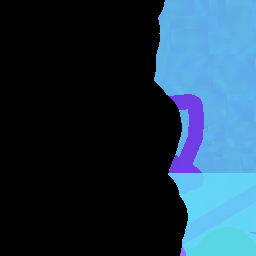
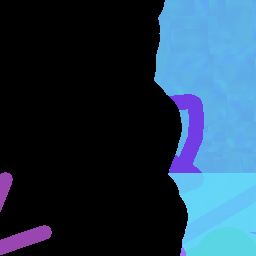
Fixed another issue with drawing thick lines

Changed region(s): [[0.0, 0.875, 0.2188, 1.0], [0.0, 0.6562, 0.0625, 0.8125]]

diff --git a/Code/drawing_functions.py b/Code/drawing_functions.py
@@ -1805,15 +1805,10 @@ class DrawLine():
                     f_color.rgba = line_color;
                 }
 
+                slope = (delta_y + 1) / (delta_x - 1);
                 if (thickness == 1.0) {
-                    slope = (delta_y + 1) / (delta_x - 1);
                     float calculated_y = (slope * (editor_pixel_x - 0.5)) + y1 - 0.5;
-                    if (mod(calculated_y, 1.0) > 0.999) {
-                        calculated_y = ceil(calculated_y);
-                    }
-                    if (mod(calculated_y, 1.0) < 0.001) {
-                        calculated_y = floor(calculated_y);
-                    }
+                    calculated_y = round_close(calculated_y);
                     if ((calculated_y <= editor_pixel_y + 0.5) && (calculated_y > editor_pixel_y - 0.5)) {
                         f_color.rgba = line_color;
                     }
@@ -1822,13 +1817,15 @@ class DrawLine():
                 float left_top_edge_offset = (mod(thickness, 2.0) == 0.0) ? -((thickness / 2) - 1) : -floor(thickness / 2);
                 float bottom_line_x = x1 + left_top_edge_offset + outer_line_x1;
                 float bottom_line_y = y1 + left_top_edge_offset + outer_line_y1;
-                float bottom_line_intercept = (slope * -bottom_line_x) + bottom_line_y;
-                bool above_bottom_line = editor_pixel_y - 0.5 <= (slope * editor_pixel_x) + bottom_line_intercept;
+                float calculated_bottom_line = (slope * (editor_pixel_x - bottom_line_x - 0.5)) + bottom_line_y - 0.5;
+                calculated_bottom_line = round_close(calculated_bottom_line);
+                bool above_bottom_line = calculated_bottom_line > editor_pixel_y - 0.5;
 
                 float top_line_x = x1 + left_top_edge_offset + outer_line_x2;
                 float top_line_y = y1 + left_top_edge_offset + outer_line_y2;
-                float top_line_intercept = (slope * -top_line_x) + top_line_y;
-                bool below_top_line = editor_pixel_y + 0.5 > (slope * editor_pixel_x) + top_line_intercept;
+                float calculated_top_line = (slope * (editor_pixel_x - top_line_x - 0.5)) + top_line_y - 0.5;
+                calculated_top_line = round_close(calculated_top_line);
+                bool below_top_line = calculated_top_line <= editor_pixel_y + 0.5;
 
                 float perpendicular_slope = (top_line_y - bottom_line_y) / (top_line_x - bottom_line_x);
                 float perpendicular_intercept_stamp1 = (perpendicular_slope * -bottom_line_x + 1) + bottom_line_y;
@@ -1861,15 +1858,10 @@ class DrawLine():
                     f_color.rgba = line_color;
                 }
 
+                inverse_slope = (delta_x - 1) / (delta_y + 1);
                 if (thickness == 1.0) {
-                    inverse_slope = (delta_x - 1) / (delta_y + 1);
                     float calculated_x = (inverse_slope * (editor_pixel_y - y1 + 0.5)) + 0.5;
-                    if (mod(calculated_x, 1.0) > 0.999) {
-                        calculated_x = ceil(calculated_x);
-                    }
-                    if (mod(calculated_x, 1.0) < 0.001) {
-                        calculated_x = floor(calculated_x);
-                    }
+                    calculated_x = round_close(calculated_x);
                     if ((calculated_x < editor_pixel_x + 0.5) && (calculated_x >= editor_pixel_x - 0.5)) {
                         f_color.rgba = line_color;
                     }
@@ -1878,13 +1870,15 @@ class DrawLine():
                 float left_top_edge_offset = (mod(thickness, 2.0) == 0.0) ? -((thickness / 2) - 1) : -floor(thickness / 2);
                 float bottom_line_x = x1 + left_top_edge_offset + outer_line_x1;
                 float bottom_line_y = y1 + left_top_edge_offset + outer_line_y1;
-                float bottom_line_intercept = (inverse_slope * -bottom_line_y) + bottom_line_x;
-                bool above_bottom_line = editor_pixel_x - 0.5 <= (inverse_slope * editor_pixel_y) + bottom_line_intercept;
+                float calculated_bottom_line = (inverse_slope * (editor_pixel_y - bottom_line_y + 0.5)) + bottom_line_x + 0.5;
+                calculated_bottom_line = round_close(calculated_bottom_line);
+                bool above_bottom_line = calculated_bottom_line >= editor_pixel_x - 0.5;
 
                 float top_line_x = x1 + left_top_edge_offset + outer_line_x2;
                 float top_line_y = y1 + left_top_edge_offset + outer_line_y2;
-                float top_line_intercept = (inverse_slope * -top_line_y) + top_line_x;
-                bool below_top_line = editor_pixel_x + 0.5 > (inverse_slope * editor_pixel_y) + top_line_intercept;
+                float calculated_top_line = (inverse_slope * (editor_pixel_y - top_line_y + 0.5)) + top_line_x + 0.5;
+                calculated_top_line = round_close(calculated_top_line);
+                bool below_top_line = calculated_top_line < editor_pixel_x + 0.5;
 
                 float perpendicular_slope = (top_line_x - bottom_line_x) / (top_line_y - bottom_line_y);
                 float perpendicular_intercept_stamp1 = (perpendicular_slope * -bottom_line_y) + bottom_line_x - 1;
@@ -1915,15 +1909,10 @@ class DrawLine():
                     f_color.rgba = line_color;
                 }
 
+                inverse_slope = (delta_x + 1) / (delta_y + 1);
                 if (thickness == 1.0) {
-                    inverse_slope = (delta_x + 1) / (delta_y + 1);
                     float calculated_x = (inverse_slope * (editor_pixel_y - y1 + 0.5)) + x1 - 0.5;
-                    if (mod(calculated_x, 1.0) > 0.999) {
-                        calculated_x = ceil(calculated_x);
-                    }
-                    if (mod(calculated_x, 1.0) < 0.001) {
-                        calculated_x = floor(calculated_x);
-                    }
+                    calculated_x = round_close(calculated_x);
                     if ((calculated_x <= editor_pixel_x + 0.5) && (calculated_x > editor_pixel_x - 0.5)) {
                         f_color.rgba = line_color;
                     }
@@ -1932,13 +1921,15 @@ class DrawLine():
                 float left_top_edge_offset = (mod(thickness, 2.0) == 0.0) ? -((thickness / 2) - 1) : -floor(thickness / 2);
                 float bottom_line_x = x1 + left_top_edge_offset + outer_line_x1;
                 float bottom_line_y = y1 + left_top_edge_offset + outer_line_y1;
-                float bottom_line_intercept = (inverse_slope * -bottom_line_y) + bottom_line_x;
-                bool above_bottom_line = editor_pixel_x + 0.5 > (inverse_slope * editor_pixel_y) + bottom_line_intercept;
+                float calculated_bottom_line = (inverse_slope * (editor_pixel_y - bottom_line_y + 0.5)) + bottom_line_x - 0.5;
+                calculated_bottom_line = round_close(calculated_bottom_line);
+                bool above_bottom_line = calculated_bottom_line <= editor_pixel_x + 0.5;
 
                 float top_line_x = x1 + left_top_edge_offset + outer_line_x2;
                 float top_line_y = y1 + left_top_edge_offset + outer_line_y2;
-                float top_line_intercept = (inverse_slope * -top_line_y) + top_line_x;
-                bool below_top_line = editor_pixel_x - 0.5 <= (inverse_slope * editor_pixel_y) + top_line_intercept;
+                float calculated_top_line = (inverse_slope * (editor_pixel_y - top_line_y + 0.5)) + top_line_x - 0.5;
+                calculated_top_line = round_close(calculated_top_line);
+                bool below_top_line = calculated_top_line > editor_pixel_x - 0.5;
 
                 float perpendicular_slope = (top_line_x - bottom_line_x) / (top_line_y - bottom_line_y);
                 float perpendicular_intercept_stamp1 = (perpendicular_slope * -bottom_line_y - 1) + bottom_line_x;
@@ -1969,15 +1960,10 @@ class DrawLine():
                     f_color.rgba = line_color;
                 }
 
+                slope = (delta_y + 1) / (delta_x + 1);
                 if (thickness == 1.0) {
-                    slope = (delta_y + 1) / (delta_x + 1);
                     float calculated_y = (slope * (editor_pixel_x - x1 + 0.5)) + y1 - 0.5;
-                    if (mod(calculated_y, 1.0) > 0.999) {
-                        calculated_y = ceil(calculated_y);
-                    }
-                    if (mod(calculated_y, 1.0) < 0.001) {
-                        calculated_y = floor(calculated_y);
-                    }
+                    calculated_y = round_close(calculated_y);
                     if ((calculated_y <= editor_pixel_y + 0.5) && (calculated_y > editor_pixel_y - 0.5)) {
                         f_color.rgba = line_color;
                     }
@@ -1986,13 +1972,15 @@ class DrawLine():
                 float left_top_edge_offset = (mod(thickness, 2.0) == 0.0) ? -((thickness / 2) - 1) : -floor(thickness / 2);
                 float bottom_line_x = x1 + left_top_edge_offset + outer_line_x1;
                 float bottom_line_y = y1 + left_top_edge_offset + outer_line_y1;
-                float bottom_line_intercept = (slope * -bottom_line_x) + bottom_line_y;
-                bool above_bottom_line = editor_pixel_y - 0.5 <= (slope * editor_pixel_x) + bottom_line_intercept;
+                float calculated_bottom_line = (slope * (editor_pixel_x - bottom_line_x + 0.5)) + bottom_line_y - 0.5;
+                calculated_bottom_line = round_close(calculated_bottom_line);
+                bool above_bottom_line = calculated_bottom_line > editor_pixel_y - 0.5;
 
                 float top_line_x = x1 + left_top_edge_offset + outer_line_x2;
                 float top_line_y = y1 + left_top_edge_offset + outer_line_y2;
-                float top_line_intercept = (slope * -top_line_x) + top_line_y;
-                bool below_top_line = editor_pixel_y + 0.5 > (slope * editor_pixel_x) + top_line_intercept;
+                float calculated_top_line = (slope * (editor_pixel_x - top_line_x + 0.5)) + top_line_y - 0.5;
+                calculated_top_line = round_close(calculated_top_line);
+                bool below_top_line = calculated_top_line <= editor_pixel_y + 0.5;
 
                 float perpendicular_slope = (top_line_y - bottom_line_y) / (top_line_x - bottom_line_x);
                 float perpendicular_intercept_stamp1 = (perpendicular_slope * -bottom_line_x - 1) + bottom_line_y;
@@ -2025,30 +2013,42 @@ class DrawLine():
                     f_color.rgba = line_color;
                 }
 
+                slope = (delta_y - 1) / (delta_x + 1);
                 if (thickness == 1.0) {
-                    slope = (delta_y - 1) / (delta_x + 1);
                     float calculated_y = (slope * (editor_pixel_x - x1 + 0.5)) + y1 + 0.5;
-                    if (mod(calculated_y, 1.0) > 0.999) {
-                        calculated_y = ceil(calculated_y);
-                    }
-                    if (mod(calculated_y, 1.0) < 0.001) {
-                        calculated_y = floor(calculated_y);
-                    }
+                    calculated_y = round_close(calculated_y);
                     if ((calculated_y < editor_pixel_y + 0.5) && (calculated_y >= editor_pixel_y - 0.5)) {
                         f_color.rgba = line_color;
                     }
                 }
 
+                // float left_top_edge_offset = (mod(thickness, 2.0) == 0.0) ? -((thickness / 2) - 1) : -floor(thickness / 2);
+                // float bottom_line_x = x1 + left_top_edge_offset + outer_line_x1;
+                // float bottom_line_y = y1 + left_top_edge_offset + outer_line_y1;
+                // float bottom_line_intercept = (slope * -bottom_line_x) + bottom_line_y;
+                // bool above_bottom_line = editor_pixel_y - 0.5 <= (slope * editor_pixel_x) + bottom_line_intercept;
+
+                // float top_line_x = x1 + left_top_edge_offset + outer_line_x2;
+                // float top_line_y = y1 + left_top_edge_offset + outer_line_y2;
+                // float top_line_intercept = (slope * -top_line_x) + top_line_y;
+                // bool below_top_line = editor_pixel_y + 0.5 >= (slope * editor_pixel_x) + top_line_intercept;
+
+
+
                 float left_top_edge_offset = (mod(thickness, 2.0) == 0.0) ? -((thickness / 2) - 1) : -floor(thickness / 2);
                 float bottom_line_x = x1 + left_top_edge_offset + outer_line_x1;
                 float bottom_line_y = y1 + left_top_edge_offset + outer_line_y1;
-                float bottom_line_intercept = (slope * -bottom_line_x) + bottom_line_y;
-                bool above_bottom_line = editor_pixel_y - 0.5 <= (slope * editor_pixel_x) + bottom_line_intercept;
+                float calculated_bottom_line = (slope * (editor_pixel_x - bottom_line_x + 0.5)) + bottom_line_y + 0.5;
+                calculated_bottom_line = round_close(calculated_bottom_line);
+                bool above_bottom_line = calculated_bottom_line >= editor_pixel_y - 0.5;
 
                 float top_line_x = x1 + left_top_edge_offset + outer_line_x2;
                 float top_line_y = y1 + left_top_edge_offset + outer_line_y2;
-                float top_line_intercept = (slope * -top_line_x) + top_line_y;
-                bool below_top_line = editor_pixel_y + 0.5 >= (slope * editor_pixel_x) + top_line_intercept;
+                float calculated_top_line = (slope * (editor_pixel_x - top_line_x + 0.5)) + top_line_y + 0.5;
+                calculated_top_line = round_close(calculated_top_line);
+                bool below_top_line = calculated_top_line < editor_pixel_y + 0.5;
+
+
 
                 float perpendicular_slope = (top_line_y - bottom_line_y) / (top_line_x - bottom_line_x);
                 float perpendicular_intercept_stamp1 = (perpendicular_slope * -bottom_line_x - 1) + bottom_line_y;
@@ -2081,30 +2081,27 @@ class DrawLine():
                     f_color.rgba = line_color;
                 }
 
+                inverse_slope = (delta_x + 1) / (delta_y - 1);
                 if (thickness == 1.0) {
-                    inverse_slope = (delta_x + 1) / (delta_y - 1);
                     float calculated_x = (inverse_slope * (editor_pixel_y - y1 - 0.5)) + x1 - 0.5;
-                    if (mod(calculated_x, 1.0) > 0.999) {
-                        calculated_x = ceil(calculated_x);
-                    }
-                    if (mod(calculated_x, 1.0) < 0.001) {
-                        calculated_x = floor(calculated_x);
-                    }
+                    calculated_x = round_close(calculated_x);
                     if ((calculated_x <= editor_pixel_x + 0.5) && (calculated_x > editor_pixel_x - 0.5)) {
                         f_color.rgba = line_color;
                     }
                 }
-
+                
                 float left_top_edge_offset = (mod(thickness, 2.0) == 0.0) ? -((thickness / 2) - 1) : -floor(thickness / 2);
                 float bottom_line_x = x1 + left_top_edge_offset + outer_line_x1;
                 float bottom_line_y = y1 + left_top_edge_offset + outer_line_y1;
-                float bottom_line_intercept = (inverse_slope * -bottom_line_y) + bottom_line_x;
-                bool above_bottom_line = editor_pixel_x - 0.5 <= (inverse_slope * editor_pixel_y) + bottom_line_intercept;
+                float calculated_bottom_line = (inverse_slope * (editor_pixel_y - bottom_line_y - 0.5)) + bottom_line_x - 0.5;
+                calculated_bottom_line = round_close(calculated_bottom_line);
+                bool above_bottom_line = calculated_bottom_line > editor_pixel_x - 0.5;
 
                 float top_line_x = x1 + left_top_edge_offset + outer_line_x2;
                 float top_line_y = y1 + left_top_edge_offset + outer_line_y2;
-                float top_line_intercept = (inverse_slope * -top_line_y) + top_line_x;
-                bool below_top_line = editor_pixel_x + 0.5 >= (inverse_slope * editor_pixel_y) + top_line_intercept;
+                float calculated_top_line = (inverse_slope * (editor_pixel_y - top_line_y - 0.5)) + top_line_x - 0.5;
+                calculated_top_line = round_close(calculated_top_line);
+                bool below_top_line = calculated_top_line <= editor_pixel_x + 0.5;
 
                 float perpendicular_slope = (top_line_x - bottom_line_x) / (top_line_y - bottom_line_y);
                 float perpendicular_intercept_stamp1 = (perpendicular_slope * -bottom_line_y - 1) + bottom_line_x;
@@ -2144,17 +2141,6 @@ class DrawLine():
                     }
                 }
 
-                // float left_top_edge_offset = (mod(thickness, 2.0) == 0.0) ? -((thickness / 2) - 1) : -floor(thickness / 2);
-                // float bottom_line_x = x1 + left_top_edge_offset + outer_line_x1;
-                // float bottom_line_y = y1 + left_top_edge_offset + outer_line_y1;
-                // float bottom_line_intercept = (inverse_slope * -bottom_line_y) + bottom_line_x;
-                // bool above_bottom_line = editor_pixel_x + 0.5 > (inverse_slope * editor_pixel_y) + bottom_line_intercept;
-
-                // float top_line_x = x1 + left_top_edge_offset + outer_line_x2;
-                // float top_line_y = y1 + left_top_edge_offset + outer_line_y2;
-                // float top_line_intercept = (inverse_slope * -top_line_y) + top_line_x;
-                // bool below_top_line = editor_pixel_x - 0.5 <= (inverse_slope * editor_pixel_y) + top_line_intercept;
-
                 float left_top_edge_offset = (mod(thickness, 2.0) == 0.0) ? -((thickness / 2) - 1) : -floor(thickness / 2);
                 float bottom_line_x = x1 + left_top_edge_offset + outer_line_x1;
                 float bottom_line_y = y1 + left_top_edge_offset + outer_line_y1;
@@ -2167,9 +2153,6 @@ class DrawLine():
                 float calculated_top_line = (inverse_slope * (editor_pixel_y - top_line_y - 0.5)) + top_line_x + 0.5;
                 calculated_top_line = round_close(calculated_top_line);
                 bool below_top_line = calculated_top_line >= editor_pixel_x - 0.5;
-
-
-
 
                 float perpendicular_slope = (top_line_x - bottom_line_x) / (top_line_y - bottom_line_y);
                 float perpendicular_intercept_stamp1 = (perpendicular_slope * -bottom_line_y + 1) + bottom_line_x;
